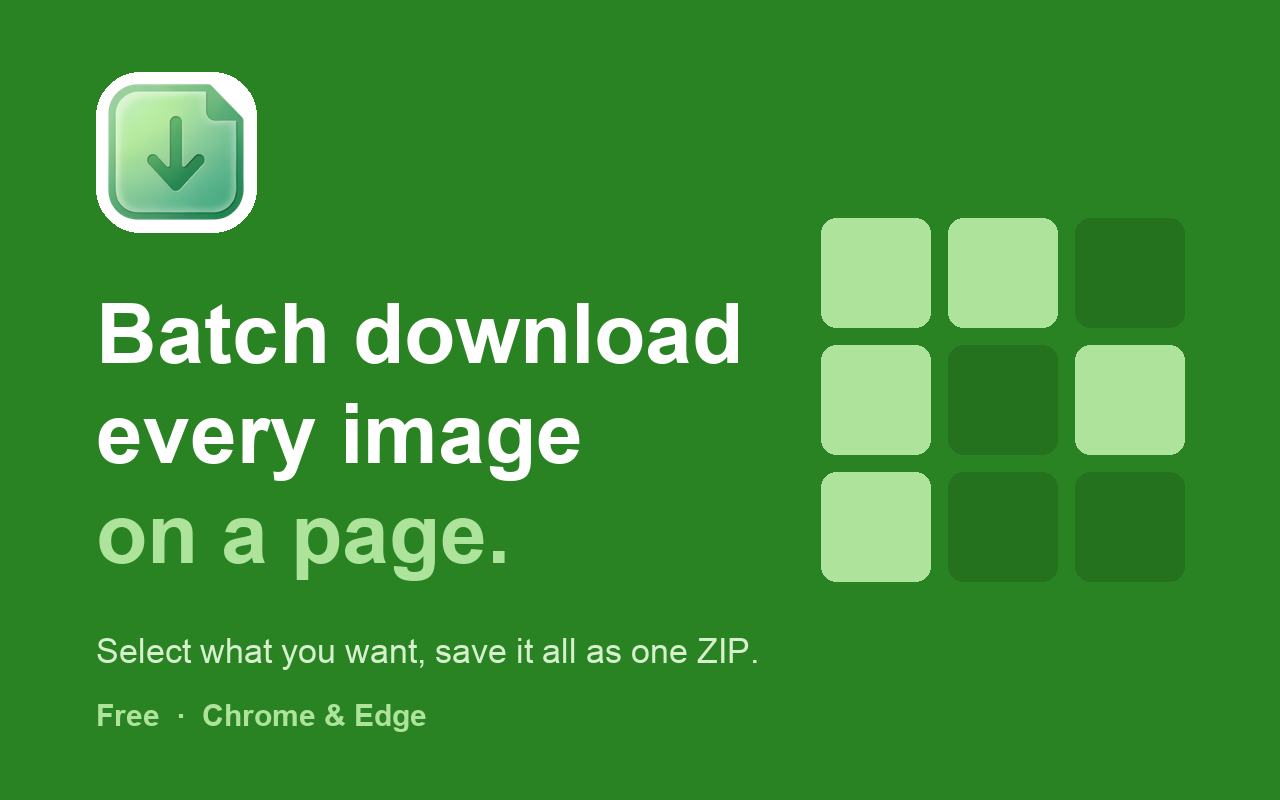
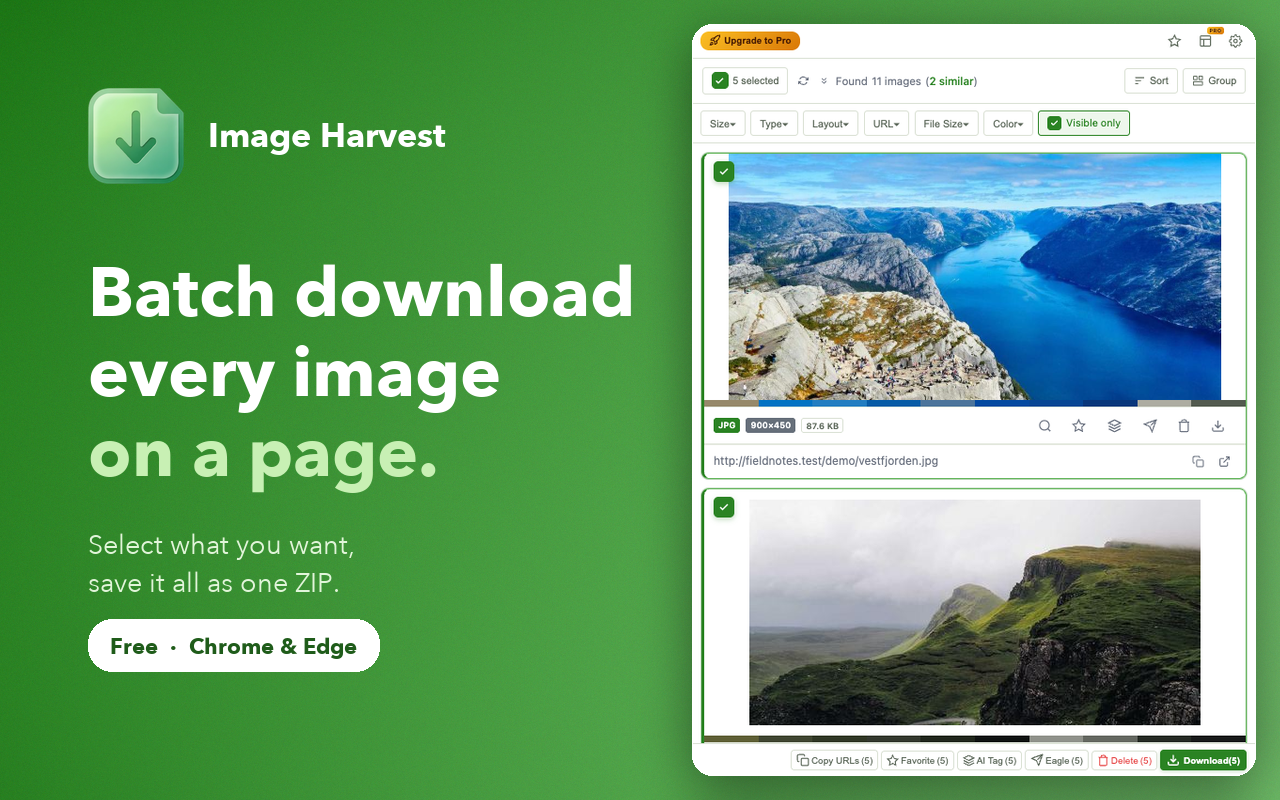
chore(store): rebuild the hero and promo tiles around the real panel
The previous hero was a flat #2a8323 card with an abstract 3x3 grid. At
275x175 in search results the grid read as decoration, and the flat fill
looked like a template next to the gradient promo tiles.

All three images now share one gradient (#2a8323 -> #7cc975, both taken
from css/variables.css), one typeface and one set of lines. The hero and
the large tile put the real 600x800 side panel next to the copy; the small
tile keeps only the icon, because a panel at 440px is unreadable.

The pill under the headline is solid white with #1f5c1a text: the first
pass used translucent white on light green and the label sat at 1.2:1.

diff --git a/scripts/make-cws-hero.py b/scripts/make-cws-hero.py
@@ -1,92 +1,244 @@
-"""Compose the 1280x800 Chrome Web Store hero image.
+"""Compose the store artwork: the 1280x800 hero and the two promo tiles.
 
-Why this is a brand card and not a UI screenshot: the store renders the first
-screenshot at 275x175 inside search results. A side-panel capture - toolbar,
-filter row, thumbnails, action bar - collapses into grey mush at that size,
-while every top-ranked competitor (Imageye, picture-and-photos saver) ships a
-brand card there.
+The hero used to be a flat green card with an abstract 3x3 grid. At 275x175 in
+store search that grid reads as decoration, not as a product, and a flat fill
+looks synthetic next to the gradient tiles already in assets/promo. It is now
+a real side-panel capture on the branded gradient: the first screenshot has to
+answer "what does this do" before anyone reads the description.
 
-Layout rules learned the hard way:
-- No bleed. Content stays inside a 96px margin on all four sides; a grid that
-  runs past the edge reads as a cropping bug, not as a design.
-- The source icon carries 37-42px of transparent padding on every side, so it
-  must be cropped to its alpha bbox before scaling, otherwise it sits off
-  centre inside its tile and looks small.
-- Flat brand green. A diagonal two-stop gradient across a dark green reads as
-  muddy at large sizes, and it leaves the light green artwork with no edge.
+All three images share one gradient, one palette and one typeface so the small
+tile, the large tile and the first screenshot cannot drift apart. The colours
+are the extension's own --primary-color / --primary-hover from css/variables.css,
+which is also what the panel itself renders with.
 
-The abstract grid is not a fake UI: no window chrome, no controls, no labels.
-It reads as "many images, some picked" even at 275px wide.
+Rules that survived review:
+- Text sits on the dark end of the gradient. White on #60b557 is 2.6:1.
+- The capture is the real 600x800 panel, cropped out of the batch-select shot,
+  rounded and shadowed so it reads as a surface above the green instead of a
+  pasted rectangle.
+- No abstract UI, no fake browser chrome, no second accent colour.
 
 Usage: python3 scripts/make-cws-hero.py
-Requires Pillow. Fonts are the macOS system Arial; on other hosts point
-BOLD/REG at any heavy/regular sans.
+Requires Pillow + numpy. Typeface is Avenir Next, present on macOS; on another
+host point BOLD / REG at any geometric sans.
+
+Grain and the capture make these PNGs large (hero lands near 1.3 MB). Run
+`oxipng -o4 --strip safe` on the three outputs before uploading; it is lossless
+and takes the hero under 1.25 MB, well inside the store's 2 MB cap.
 """
 import os
 from pathlib import Path
 
-from PIL import Image, ImageDraw, ImageFont
+import numpy as np
+from PIL import Image, ImageDraw, ImageFilter, ImageFont
 
-W, H = 1280, 800
-MARGIN = 96
 ROOT = Path(__file__).resolve().parent.parent
-BOLD = "/System/Library/Fonts/Supplemental/Arial Bold.ttf"
-REG = "/System/Library/Fonts/Supplemental/Arial.ttf"
-ICON = ROOT / "assets/promo/icon-300.png"
-OUT = ROOT / "assets/screenshots/hero-1280.png"
+SCREENS = ROOT / "assets/screenshots"
+PROMO = ROOT / "assets/promo"
 
-BG = (42, 131, 35)  # #2a8323, the install-badge brand green
-MINT = (173, 227, 154)
+BOLD = ("/System/Library/Fonts/Avenir Next.ttc", 0)
+REG = ("/System/Library/Fonts/Avenir Next.ttc", 7)
 
-img = Image.new("RGB", (W, H), BG)
-draw = ImageDraw.Draw(img, "RGBA")
+DARK = (42, 131, 35)  # #2a8323, --primary-color
+LIGHT = (124, 201, 117)  # #7cc975, the dark-mode primary; also the light end here
+MINT = (200, 240, 180)
+WHITE = (255, 255, 255)
+SUB = (226, 245, 218)
 
-# Right-hand grid, fully inside the margin: the last column must land exactly
-# on the 96px guide, never past it.
-CELL, GAP = 109, 18
-COL = 3 * CELL + 2 * GAP  # 363
-gx = W - MARGIN - COL  # 821
-gy = (H - COL) // 2  # 218
-selected = {(0, 0), (1, 0), (2, 0), (0, 1), (1, 2)}
-for r in range(3):
-    for c in range(3):
-        x = gx + c * (CELL + GAP)
-        y = gy + r * (CELL + GAP)
-        fill = MINT + (255,) if (r, c) in selected else (0, 0, 0, 34)
-        draw.rounded_rectangle([x, y, x + CELL, y + CELL], radius=15, fill=fill)
+# The panel half of every 1280x800 store screenshot: the capture is 680px of
+# page plus 600px of panel, so the panel always starts at x=680.
+PANEL_CROP = (680, 0, 1280, 800)
+PANEL_SRC = SCREENS / "batch-select-1280.png"
 
-# Icon: crop the transparent padding first, then sit it on a white plate.
-# Two separate problems, both visible only when composed against green:
-# skipping the crop leaves it visually off-centre, and pasting the bare
-# artwork drops a light green-on-green shape with no edge. The plate radius
-# is the icon's own radius plus the padding, so the white ring stays even.
-icon = Image.open(ICON).convert("RGBA")
-icon = icon.crop(icon.getchannel("A").getbbox())
-side, pad = 136, 12
-icon = icon.resize((side, side), Image.LANCZOS)
-plate = side + pad * 2
-ImageDraw.Draw(img).rounded_rectangle(
-    [MARGIN, 72, MARGIN + plate, 72 + plate], radius=44, fill=(255, 255, 255, 255)
-)
-img.paste(icon, (MARGIN + pad, 72 + pad), icon)
 
-title = ImageFont.truetype(BOLD, 84)
-sub = ImageFont.truetype(REG, 34)
-tail = ImageFont.truetype(BOLD, 30)
+def font(spec, size):
+    path, index = spec
+    return ImageFont.truetype(path, size, index=index)
 
-# 84px keeps the headline legible at 275px wide (about 18px there).
-lines = [("Batch download", (255, 255, 255, 255)),
-         ("every image", (255, 255, 255, 255)),
-         ("on a page.", MINT + (255,))]
-y = 286
-for text, fill in lines:
-    draw.text((MARGIN, y), text, font=title, fill=fill)
-    y += 100
 
-draw.text((MARGIN, 632), "Select what you want, save it all as one ZIP.",
-          font=sub, fill=(214, 240, 206, 255))
-draw.text((MARGIN, 698), "Free  ·  Chrome & Edge", font=tail, fill=MINT + (255,))
+def fit_size(draw, lines, spec, max_w, hi, lo):
+    """Largest size at which every line fits the column."""
+    for size in range(hi, lo, -1):
+        f = font(spec, size)
+        if all(draw.textlength(line, font=f) <= max_w for line in lines):
+            return size
+    return lo
 
-OUT.parent.mkdir(parents=True, exist_ok=True)
-img.save(OUT, "PNG")
-print("wrote", os.path.relpath(OUT, ROOT), img.size)
+
+def backdrop(w, h):
+    """Brand gradient, a slight vignette, a little grain.
+
+    The grain is what separates this from a flat template fill; 2 grey levels
+    of noise is invisible on a thumbnail but stops the gradient banding at
+    full size. The vignette keeps the corners from looking printed.
+    """
+    yy, xx = np.mgrid[0:h, 0:w]
+    t = (xx / (w - 1)) * 0.78 + (yy / (h - 1)) * 0.22
+    # Gamma on the ramp keeps the left half on the dark end. A straight lerp
+    # between two greens this close reads as a flat fill on a thumbnail.
+    t = np.clip(t, 0.0, 1.0)[..., None] ** 1.30
+
+    start, end = np.array(DARK, float), np.array(LIGHT, float)
+    rgb = start + (end - start) * t
+
+    dx = (xx - w / 2) / (w / 2)
+    dy = (yy - h / 2) / (h / 2)
+    edge = (dx * dx + dy * dy) / 2.0
+    rgb = rgb - edge[..., None] ** 1.4 * 14
+
+    rng = np.random.default_rng(7)
+    rgb = rgb + rng.normal(0.0, 2.0, rgb.shape)
+    return Image.fromarray(np.clip(rgb, 0, 255).astype(np.uint8), "RGB").convert("RGBA")
+
+
+def panel_capture(w, h):
+    shot = Image.open(PANEL_SRC).convert("RGB").crop(PANEL_CROP)
+    return shot.resize((w, h), Image.LANCZOS).convert("RGBA")
+
+
+def paste_panel(canvas, x, y, w, h, radius=20):
+    shot = panel_capture(w, h)
+    mask = Image.new("L", (w, h), 0)
+    ImageDraw.Draw(mask).rounded_rectangle([0, 0, w - 1, h - 1], radius=radius, fill=255)
+
+    shadow = Image.new("RGBA", canvas.size, (0, 0, 0, 0))
+    ImageDraw.Draw(shadow).rounded_rectangle(
+        [x, y + 12, x + w - 1, y + h + 12], radius=radius, fill=(0, 0, 0, 120)
+    )
+    canvas.alpha_composite(shadow.filter(ImageFilter.GaussianBlur(26)))
+    canvas.paste(shot, (x, y), mask)
+
+    edge = ImageDraw.Draw(canvas)
+    edge.rounded_rectangle([x, y, x + w - 1, y + h - 1], radius=radius,
+                           outline=(255, 255, 255, 34), width=1)
+    return canvas
+
+
+def icon_mark(canvas, x, y, side):
+    """The app icon, cropped to its alpha bbox before scaling.
+
+    The source PNG carries 37-42px of transparent padding on every side, so
+    pasting it un-cropped leaves the artwork visually off-centre. No white
+    plate: the icon already has its own light rim, and a plate behind it reads
+    as a sticker.
+    """
+    icon = Image.open(PROMO / "icon-300.png").convert("RGBA")
+    icon = icon.crop(icon.getchannel("A").getbbox()).resize((side, side), Image.LANCZOS)
+    canvas.paste(icon, (x, y), icon)
+    return side
+
+
+def pill(draw, x, baseline, text, size=22, pad_x=22, pad_y=13):
+    """White pill with brand-green text.
+
+    A translucent white pill over light green left the label at about 1.2:1 in
+    the first pass: pale text on a pale wash. Solid white and #1f5c1a is the
+    only version that stays legible over every part of the gradient.
+    """
+    f = font(BOLD, size)
+    w = draw.textlength(text, font=f)
+    top = baseline - size
+    draw.rounded_rectangle([x, top - pad_y, x + w + pad_x * 2, baseline + pad_y + size * 0.18],
+                           radius=(pad_y * 2 + size) // 2, fill=(255, 255, 255, 238))
+    draw.text((x + pad_x, baseline), text, font=f, fill=(31, 92, 26), anchor="ls")
+
+
+def write_hero(path):
+    W, H = 1280, 800
+    canvas = backdrop(W, H)
+    draw = ImageDraw.Draw(canvas)
+
+    # Panel: 0.94 of its native pixels, inset 24px on three sides so all four
+    # corners stay visible. The right-hand gutter is what keeps it from looking
+    # like a crop that ran off the canvas.
+    pw, ph = 564, 752
+    px, py = W - pw - 24, 24
+    paste_panel(canvas, px, py, pw, ph)
+
+    col = 88
+    col_w = px - 56 - col
+
+    plate = icon_mark(canvas, col, 88, 96)
+    draw = ImageDraw.Draw(canvas)
+    draw.text((col + plate + 24, 88 + plate / 2), "Image Harvest",
+              font=font(BOLD, 34), fill=WHITE, anchor="lm")
+
+    lines = ["Batch download", "every image", "on a page."]
+    size = fit_size(draw, lines, BOLD, col_w, 72, 44)
+    line = round(size * 1.16)
+    base = 316
+    for i, text in enumerate(lines):
+        draw.text((col, base + i * line), text,
+                  font=font(BOLD, size), fill=MINT if i == 2 else WHITE, anchor="ls")
+
+    sub_base = base + 2 * line + 78
+    for i, text in enumerate(["Select what you want,", "save it all as one ZIP."]):
+        draw.text((col, sub_base + i * 38), text, font=font(REG, 27), fill=SUB, anchor="ls")
+
+    pill(draw, col, sub_base + 38 + 62, "Free  ·  Chrome & Edge")
+
+    path.parent.mkdir(parents=True, exist_ok=True)
+    canvas.convert("RGB").save(path, "PNG")
+    print("wrote", os.path.relpath(path, ROOT), (W, H), "title", size)
+
+
+def write_small(path):
+    W, H = 440, 280
+    canvas = backdrop(W, H)
+    draw = ImageDraw.Draw(canvas)
+
+    plate = icon_mark(canvas, 64, 64, 88)
+    draw = ImageDraw.Draw(canvas)
+
+    # Centred as a block: icon + text spans 64..369 on a 440 canvas.
+    # Bold at 18, not regular: the small tile's text sits on the mid-ramp of the
+    # gradient, where regular white lands at about 3:1 and reads thin.
+    tx = 64 + plate + 24
+    draw.text((tx, 112), "Image Harvest", font=font(BOLD, 27), fill=WHITE, anchor="ls")
+    draw.text((tx, 150), "Batch download", font=font(BOLD, 18), fill=WHITE, anchor="ls")
+    draw.text((tx, 176), "every image on a page.", font=font(BOLD, 18), fill=WHITE, anchor="ls")
+    draw.text((tx, 216), "Free  ·  Chrome & Edge", font=font(BOLD, 14), fill=MINT, anchor="ls")
+
+    path.parent.mkdir(parents=True, exist_ok=True)
+    canvas.convert("RGB").save(path, "PNG")
+    print("wrote", os.path.relpath(path, ROOT), (W, H))
+
+
+def write_top(path):
+    W, H = 1400, 560
+    canvas = backdrop(W, H)
+    draw = ImageDraw.Draw(canvas)
+
+    pw, ph = 396, 528
+    px, py = W - pw - 48, 16
+    paste_panel(canvas, px, py, pw, ph)
+    draw = ImageDraw.Draw(canvas)
+
+    col = 80
+    col_w = px - 64 - col
+
+    plate = icon_mark(canvas, col, 84, 96)
+    draw = ImageDraw.Draw(canvas)
+    draw.text((col + plate + 26, 84 + plate / 2), "Image Harvest",
+              font=font(BOLD, 42), fill=WHITE, anchor="lm")
+
+    lines = ["Batch download", "every image", "on a page."]
+    # 68 is the ceiling: at 76 the first line sat directly under the wordmark.
+    size = fit_size(draw, lines, BOLD, col_w, 68, 48)
+    line = round(size * 1.14)
+    base = 248
+    for i, text in enumerate(lines):
+        draw.text((col, base + i * line), text,
+                  font=font(BOLD, size), fill=MINT if i == 2 else WHITE, anchor="ls")
+
+    pill(draw, col, base + 2 * line + 72, "Select a few. Save one ZIP.", size=24)
+
+    path.parent.mkdir(parents=True, exist_ok=True)
+    canvas.convert("RGB").save(path, "PNG")
+    print("wrote", os.path.relpath(path, ROOT), (W, H), "title", size)
+
+
+if __name__ == "__main__":
+    write_hero(SCREENS / "hero-1280.png")
+    write_small(PROMO / "small-new.png")
+    write_top(PROMO / "top-new.png")

diff --git a/docs/chrome-store/listing-optimization-2026-10.md b/docs/chrome-store/listing-optimization-2026-10.md
@@ -55,16 +55,25 @@ CWS 搜索结果页（`/search/...`）每个结果项除图标、评分、短描
 | Image downloader - picture and photos saver | 4.8  | 纯蓝底 + 图标 + 「Image Downloader」大字 + 一排线性小图标 |
 | Image Downloader (Featured)                 | 4.0  | 纯蓝底 + 一个下载图标                                     |
 
-结论：该位置没有任何竞品放真实 UI 截图。侧栏截图在 275px 宽下（工具栏、筛选行、
-缩略图、操作条）会退化成灰糊，只有大色块 + 大字号能存活。此前设想的「首图展示
-扫描完成 + DownloadNudgeBar」在这个尺寸下不可读，仅对点进详情页的人有效。
+结论：该位置没有任何竞品放真实 UI 截图。整张侧栏截图在 275px 宽下（工具栏、
+筛选行、缩略图、操作条）会退化成灰糊，只有大色块 + 大字号能存活。
+
+**2026-11-25 二次修正：上一条只对「整张侧栏截图」成立。** 把侧栏按 600×800 贴在
+右半边、左半边留给三行大字之后，275×175 下标题可读，缩略图里也能看出「勾选 +
+底部 Download (5)」。所以首图定为「左文案 + 右侧真实面板」，不再用抽象网格——
+纯色平涂 + 假九宫格在商店里读起来像模板，也没有回答「这是干什么的」。
 
 ### 已产出
 
-- `assets/screenshots/hero-1280.png`（1280×800）：纯品牌绿 `#2a8323` 平涂 + 图标
-  （白底圆角板，裁掉源图透明留白后居中）+ 84px 三行标题 + 抽象图片网格（完整
-  落在 96px 安全边距内，无出血裁切）。
-- `scripts/make-cws-hero.py`：改文案后重新出图，不必回到图形工具。
+- `assets/screenshots/hero-1280.png`（1280×800）：品牌绿渐变（`#2a8323` →
+  `#7cc975`，两端都取自 `css/variables.css`）+ 左侧 69px 三行标题、副标与
+  Free 徽标 + 右侧 `batch-select-1280.png` 的 600px 面板（缩至 564×752，圆角加
+  投影，右/上/下各留 24px）。
+- `assets/promo/small-new.png`（440×280）与 `assets/promo/top-new.png`（1400×560）：
+  同一套渐变、字体与文案。top 版同样贴真实面板；small 版只有 440px，放面板会糊，
+  因此只留图标 + 三行字。
+- `scripts/make-cws-hero.py`：一次生成这三张；改文案后重跑，不必回到图形工具。
+  渐变方向、暗角与噪点都在这里，三张图不会各自漂移。
 
 ### 真实截图流水线（2026-11-25 起）
 
